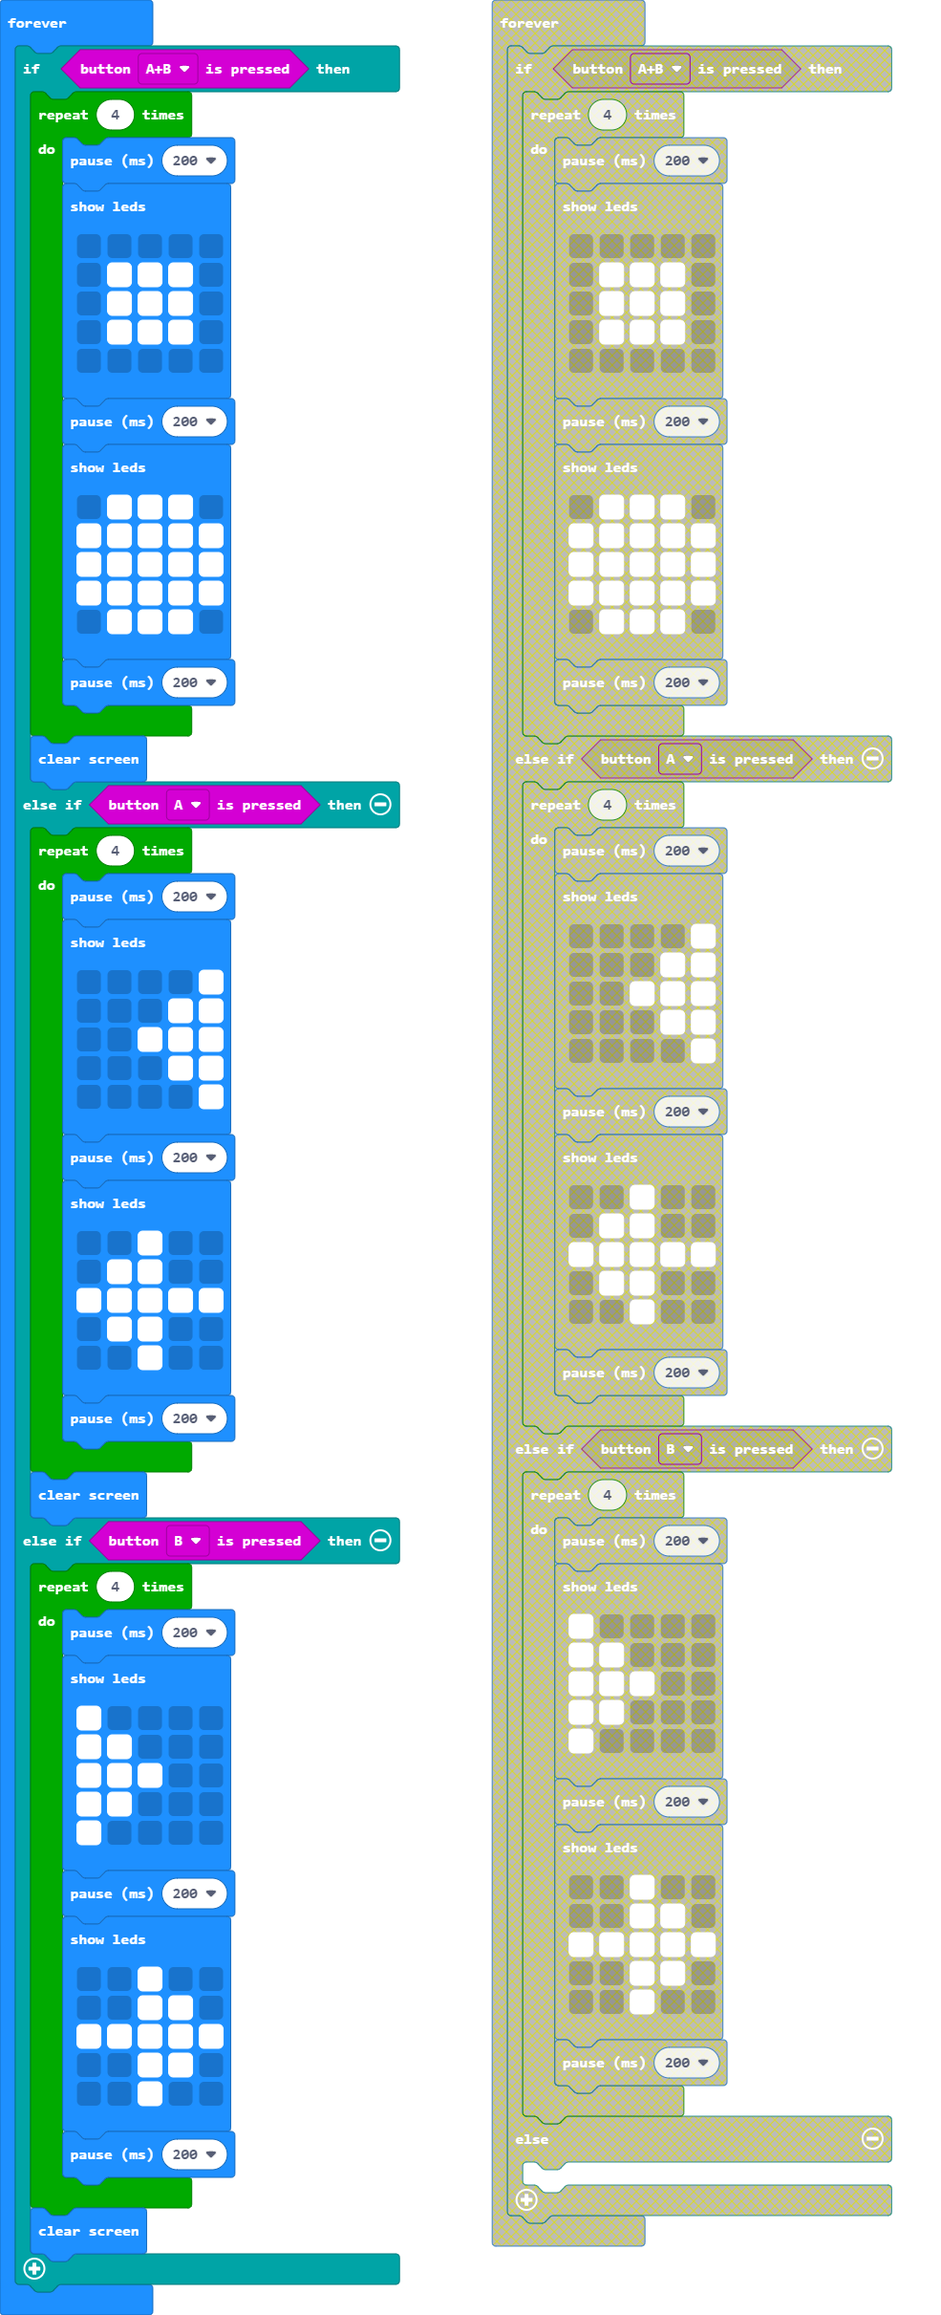
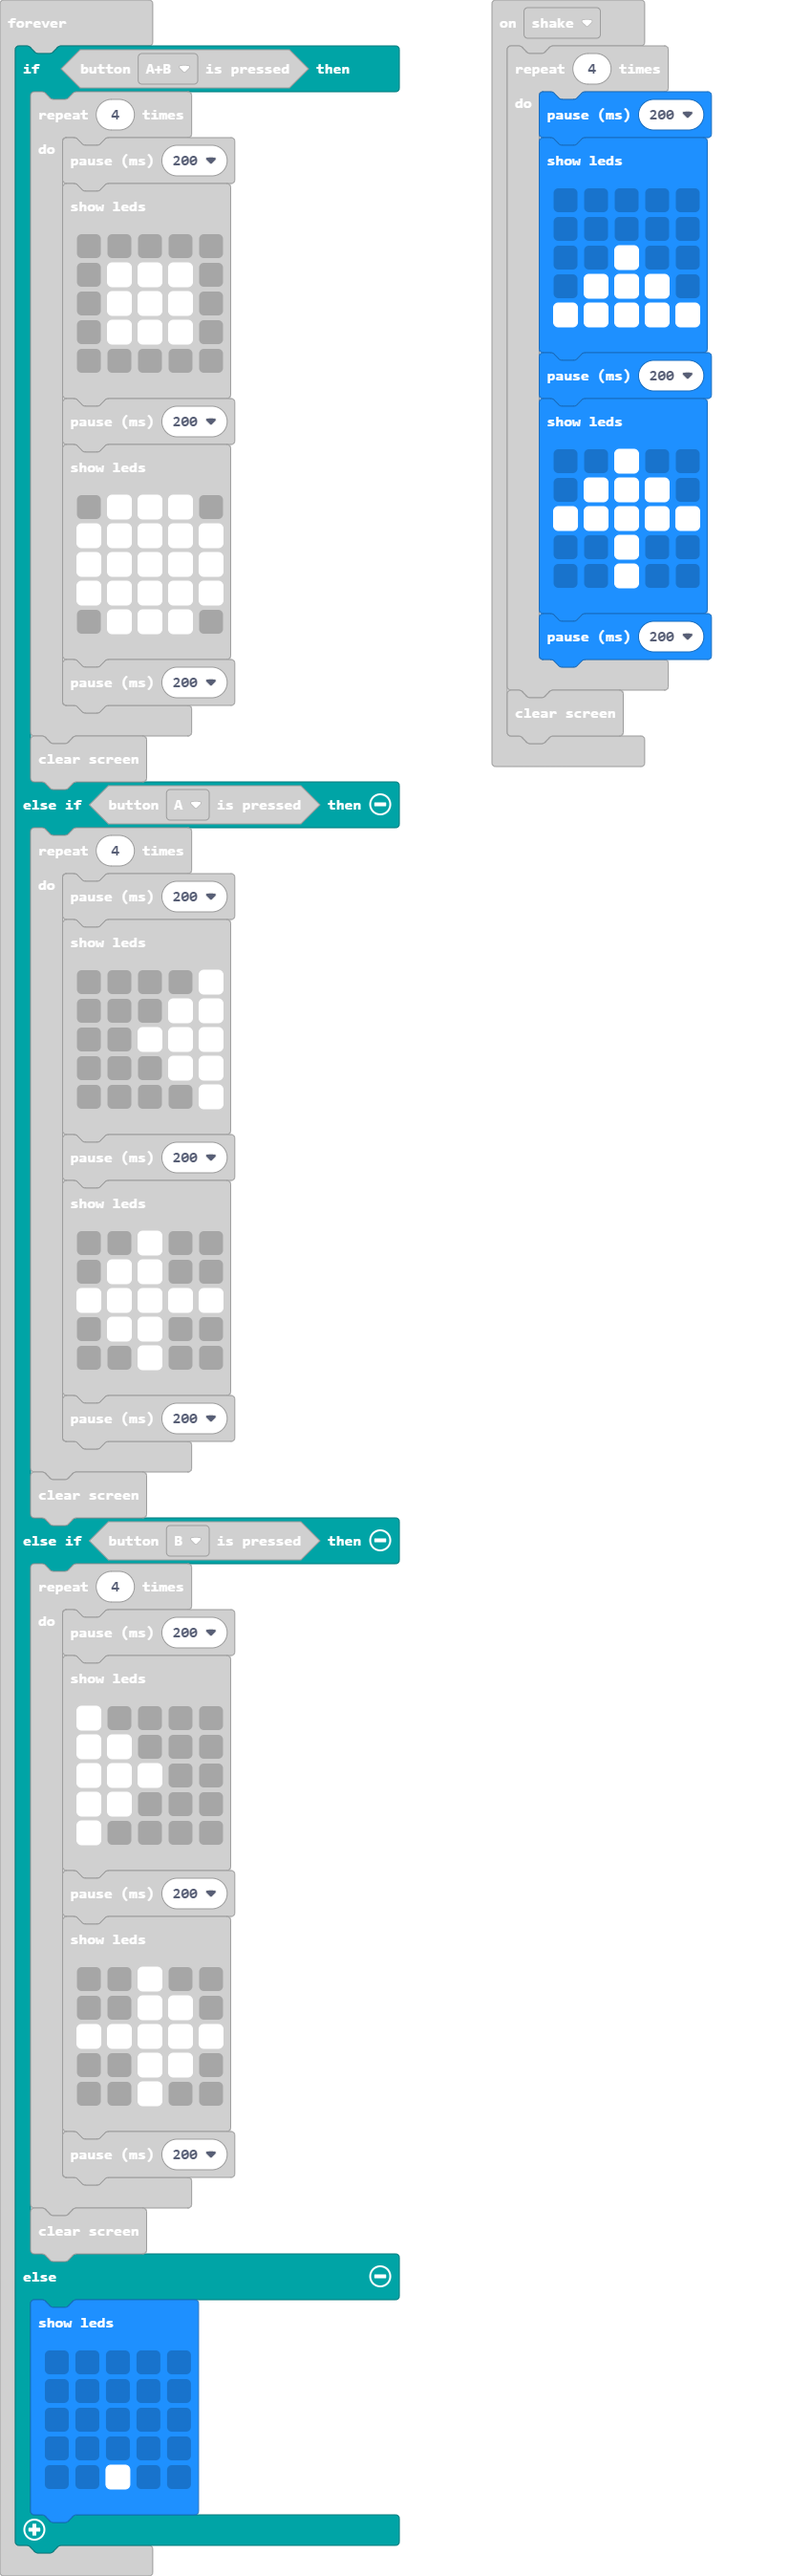
minimal

diff --git a/main.ts b/main.ts
@@ -1,5 +1,6 @@
 input.onGesture(Gesture.Shake, function () {
     for (let index = 0; index < 4; index++) {
+        basic.pause(200)
         basic.showLeds(`
             . . . . .
             . . . . .
@@ -15,6 +16,7 @@ input.onGesture(Gesture.Shake, function () {
             . . # . .
             . . # . .
             `)
+        basic.pause(200)
     }
     basic.clearScreen()
 })
@@ -82,5 +84,13 @@ basic.forever(function () {
             basic.pause(200)
         }
         basic.clearScreen()
+    } else {
+        basic.showLeds(`
+            . . . . .
+            . . . . .
+            . . . . .
+            . . . . .
+            . . # . .
+            `)
     }
 })
